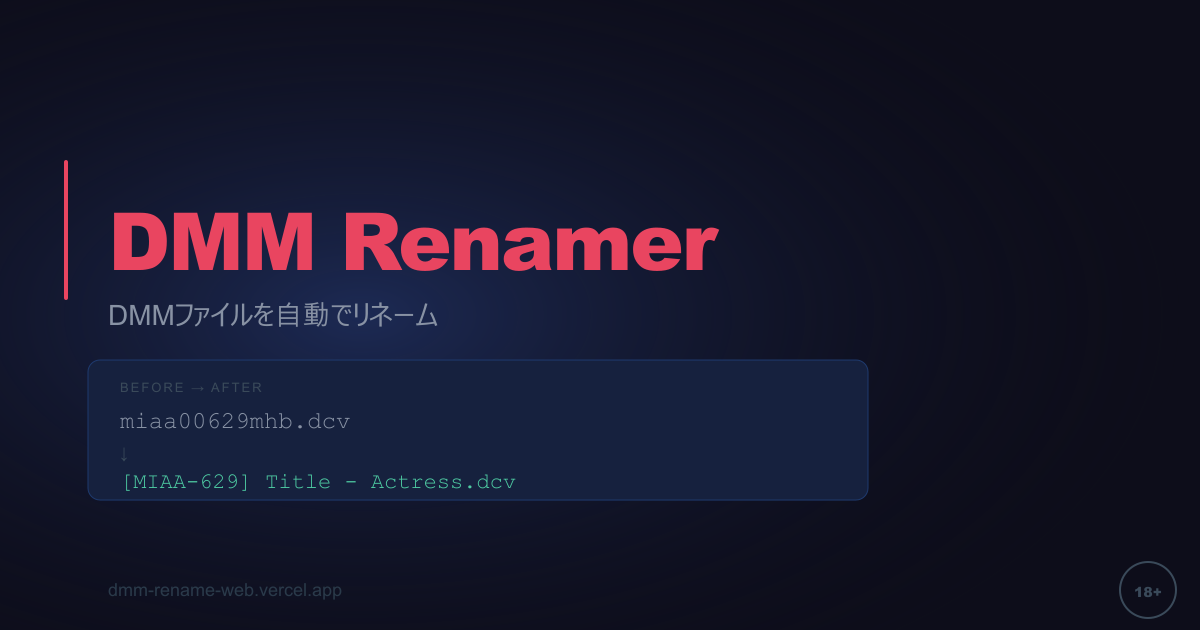
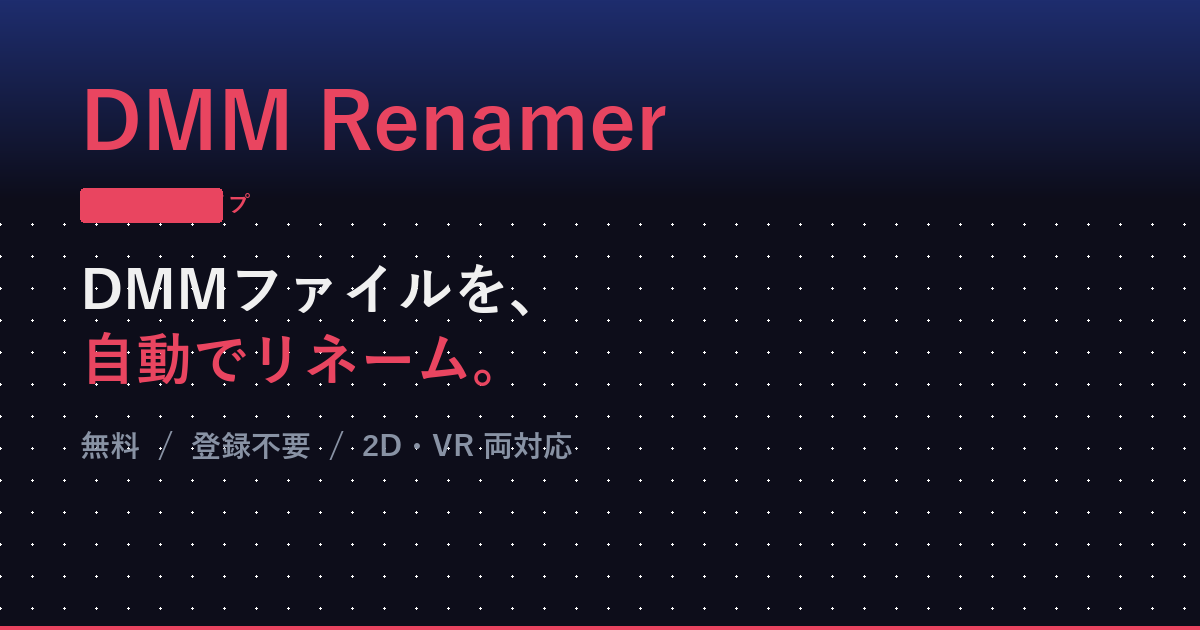
feat: OGPメタタグ追加・ogp.png生成（1200x630）
- public/index.html: og:/twitter: メタタグを追加
- public/ogp.png: Pillowで生成（Yu Gothic Bold、背景#0d0d1a）

diff --git a/public/index.html b/public/index.html
@@ -5,6 +5,20 @@
   <meta name="viewport" content="width=device-width, initial-scale=1.0">
   <title>DMM Renamer</title>
   <meta name="description" content=".dcvファイルをタイトル・女優名に自動リネーム。FANZA公式APIを使用。">
+  <!-- OGP -->
+  <meta property="og:title" content="DMM Renamer - DMMファイルを自動リネーム">
+  <meta property="og:description" content="ダウンロードした謎のファイル名を、女優名・タイトルに整理。2D（.dcv）・VR（.wsdcf）両対応。貼り付けるだけ、無料、登録不要。">
+  <meta property="og:type" content="website">
+  <meta property="og:url" content="https://dmm-rename-web.aa-yo-fujiwara.workers.dev">
+  <meta property="og:image" content="https://dmm-rename-web.aa-yo-fujiwara.workers.dev/ogp.png">
+  <meta property="og:site_name" content="DMM Renamer">
+  <meta property="og:locale" content="ja_JP">
+  <!-- Twitter Card -->
+  <meta name="twitter:card" content="summary_large_image">
+  <meta name="twitter:site" content="@uminobozu125">
+  <meta name="twitter:title" content="DMM Renamer - DMMファイルを自動リネーム">
+  <meta name="twitter:description" content="ダウンロードした謎のファイル名を、女優名・タイトルに整理。2D（.dcv）・VR（.wsdcf）両対応。貼り付けるだけ、無料、登録不要。">
+  <meta name="twitter:image" content="https://dmm-rename-web.aa-yo-fujiwara.workers.dev/ogp.png">
   <link rel="preconnect" href="https://fonts.googleapis.com">
   <link rel="preconnect" href="https://fonts.gstatic.com" crossorigin>
   <link href="https://fonts.googleapis.com/css2?family=Syne:wght@700;800&family=DM+Sans:wght@400;500&display=swap" rel="stylesheet">